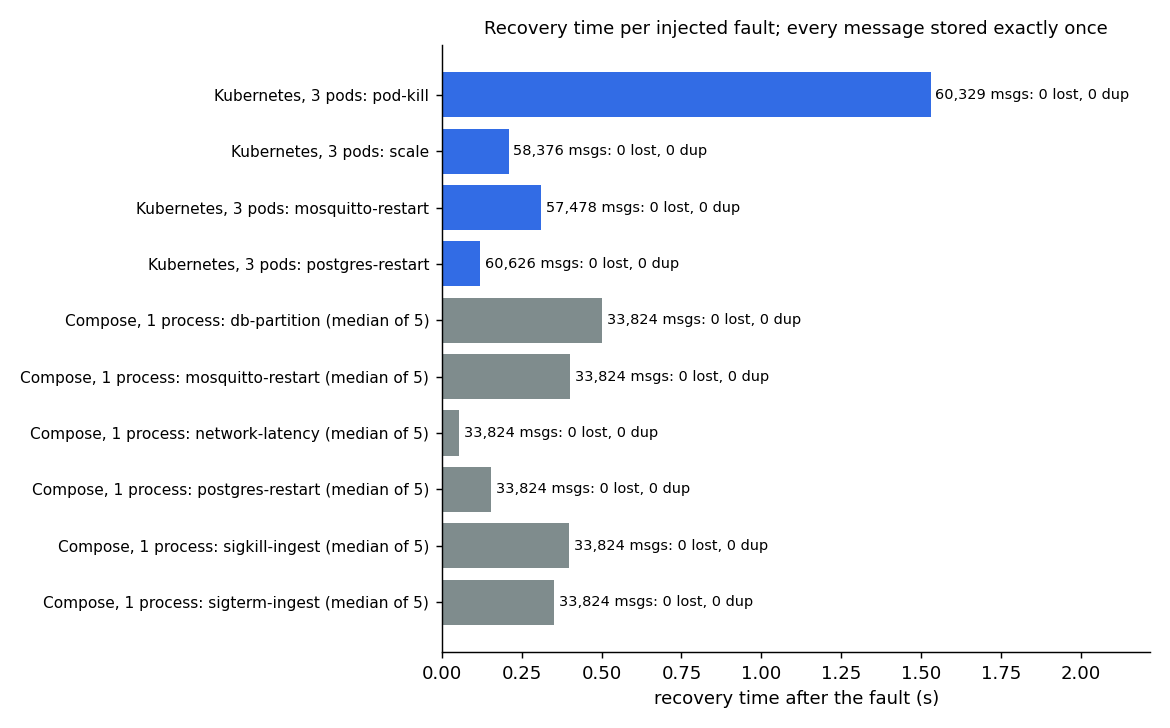
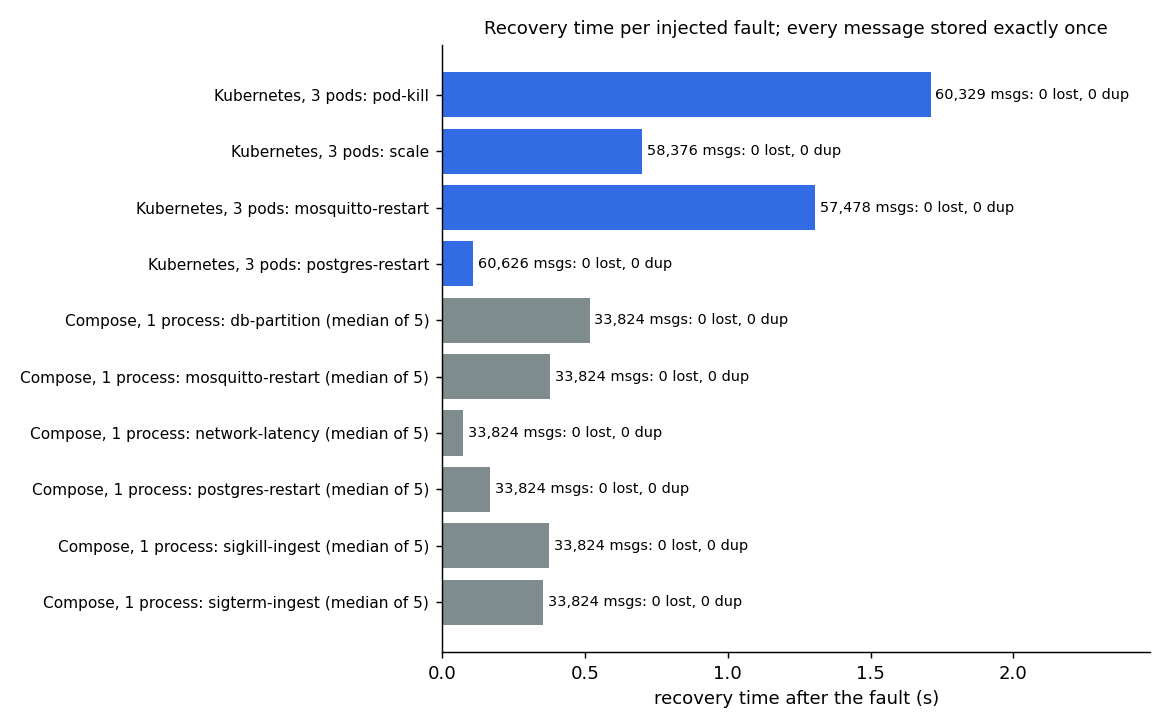
Match the README k3d results and the benchmark host memory to the committed reports

diff --git a/README.md b/README.md
@@ -65,7 +65,7 @@ Measured numbers are in [PERFORMANCE.md](PERFORMANCE.md) (throughput, latency, a
 
 | Check (committed test or script) | Faults | Messages (distinct) | Lost | Duplicated | Result |
 | --- | --- | ---: | ---: | ---: | --- |
-| `scripts/k8s-e2e.sh --quick` (k3d, 3 replicas, 16 partitions, 200 devices, [reports/k8s-chaos.json](reports/k8s-chaos.json)) | pod kill every 4 s, scale 3→1→3→2, Mosquitto restart, Postgres restart | 236,809 | 0 | 0 | recovery 0.1–1.5 s per scenario; Prometheus scraped 3/3 pods |
+| `scripts/k8s-e2e.sh --quick` (k3d, 3 replicas, 16 partitions, 200 devices, [reports/k8s-chaos.json](reports/k8s-chaos.json)) | pod kill every 4 s, scale 3→1→3→2, Mosquitto restart, Postgres restart | 236,809 | 0 | 0 | recovery 0.1–1.7 s per scenario; Prometheus scraped 3/3 pods |
 | `test/cluster.integration.test.ts` (5 in-process pods, 8 partitions, [results/cluster-chaos.json](results/cluster-chaos.json)) | scale 1→3, kill + restart, kill without restart, graceful stop, scale 1→2 | 13,463 | 0 | 0 | trips identical to one uninterrupted ingestor; every handoff < 1 s |
 | `npm run test:chaos` (Docker Compose + Toxiproxy, [docs/RESILIENCE.md](docs/RESILIENCE.md)) | SIGKILL, SIGTERM, broker restart, DB restart, latency, DB partition × 5 seeds | ~7,000 per run | 0 | 0 | 30/30 runs pass, trips identical to a fault-free run |
 | `deploy/prometheus/rules.test.yaml` (promtool) | p95 latency, consumer lag, error ratio, unowned partitions, target down | – | – | – | every alert fires and stays quiet as specified |
@@ -273,18 +273,18 @@ scenario) and exits non-zero on any loss, duplicate or unscraped pod.
 `.github/workflows/k8s.yml` runs the same script after the static checks and uploads the report.
 
 Measured with `--quick` (3 replicas, 16 partitions, 200 vehicles, 1500 msg/s, seed 7; the whole
-script took 293 s including cluster creation, inside a 3 GB node limit):
+script took 297 s including cluster creation, inside a 3 GB node limit):
 
 | Scenario | Sent | Distinct | Stored | Lost | Duplicated | Recovery |
 | --- | ---: | ---: | ---: | ---: | ---: | ---: |
-| `pod-kill` (3 kills, 4 s apart) | 63,355 | 60,329 | 60,329 | 0 | 0 | 1.5 s |
-| `scale` 3 → 1 → 3 → 2 | 61,387 | 58,376 | 58,376 | 0 | 0 | 0.2 s |
-| `mosquitto-restart` | 60,335 | 57,478 | 57,478 | 0 | 0 | 0.3 s |
+| `pod-kill` (3 kills, 4 s apart) | 63,355 | 60,329 | 60,329 | 0 | 0 | 1.7 s |
+| `scale` 3 → 1 → 3 → 2 | 61,387 | 58,376 | 58,376 | 0 | 0 | 0.7 s |
+| `mosquitto-restart` | 60,335 | 57,478 | 57,478 | 0 | 0 | 1.3 s |
 | `postgres-restart` | 63,713 | 60,626 | 60,626 | 0 | 0 | 0.1 s |
 | **total** | 248,790 | 236,809 | 236,809 | 0 | 0 | |
 
 "Sent" includes the simulator's deliberate duplicates. Prometheus had an `up` target for 3 of 3
-ingest pods with all 5 alert rules loaded, and reported a p95 publish-to-commit latency of 1.5 s
+ingest pods with all 5 alert rules loaded, and reported a p95 publish-to-commit latency of 1.6 s
 over the run (the chaos replay publishes faster than real time and pauses during faults).
 
 ## Message format

diff --git a/PERFORMANCE.md b/PERFORMANCE.md
@@ -2,7 +2,7 @@
 
 All numbers below come from real runs on a single machine on 2026-10-03:
 
-- 4 vCPUs (Intel i5-13600K), 8 GB RAM, Node.js v26.9.0
+- 4 vCPUs (Intel i5-13600K), 16 GB RAM, Node.js v26.9.0
 - Mosquitto 2 and Postgres 16 in Docker (host networking)
 - the ingestion service (`npm start`), the load generators and k6, all on the same host
 
